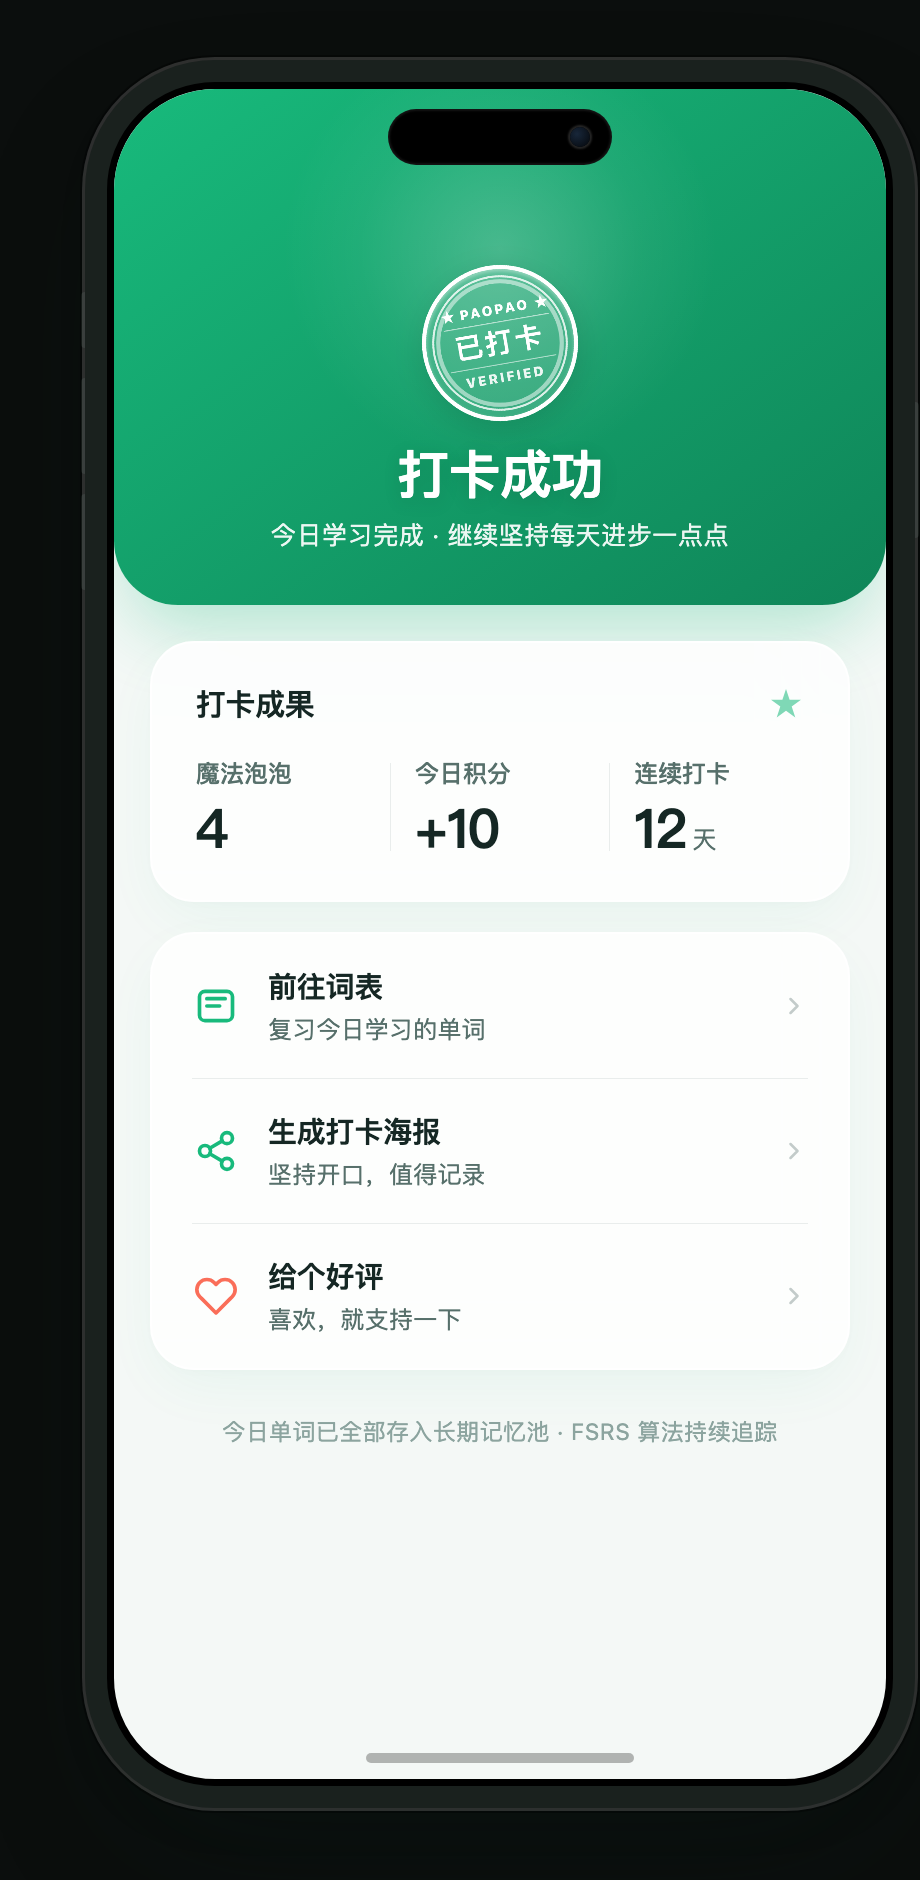
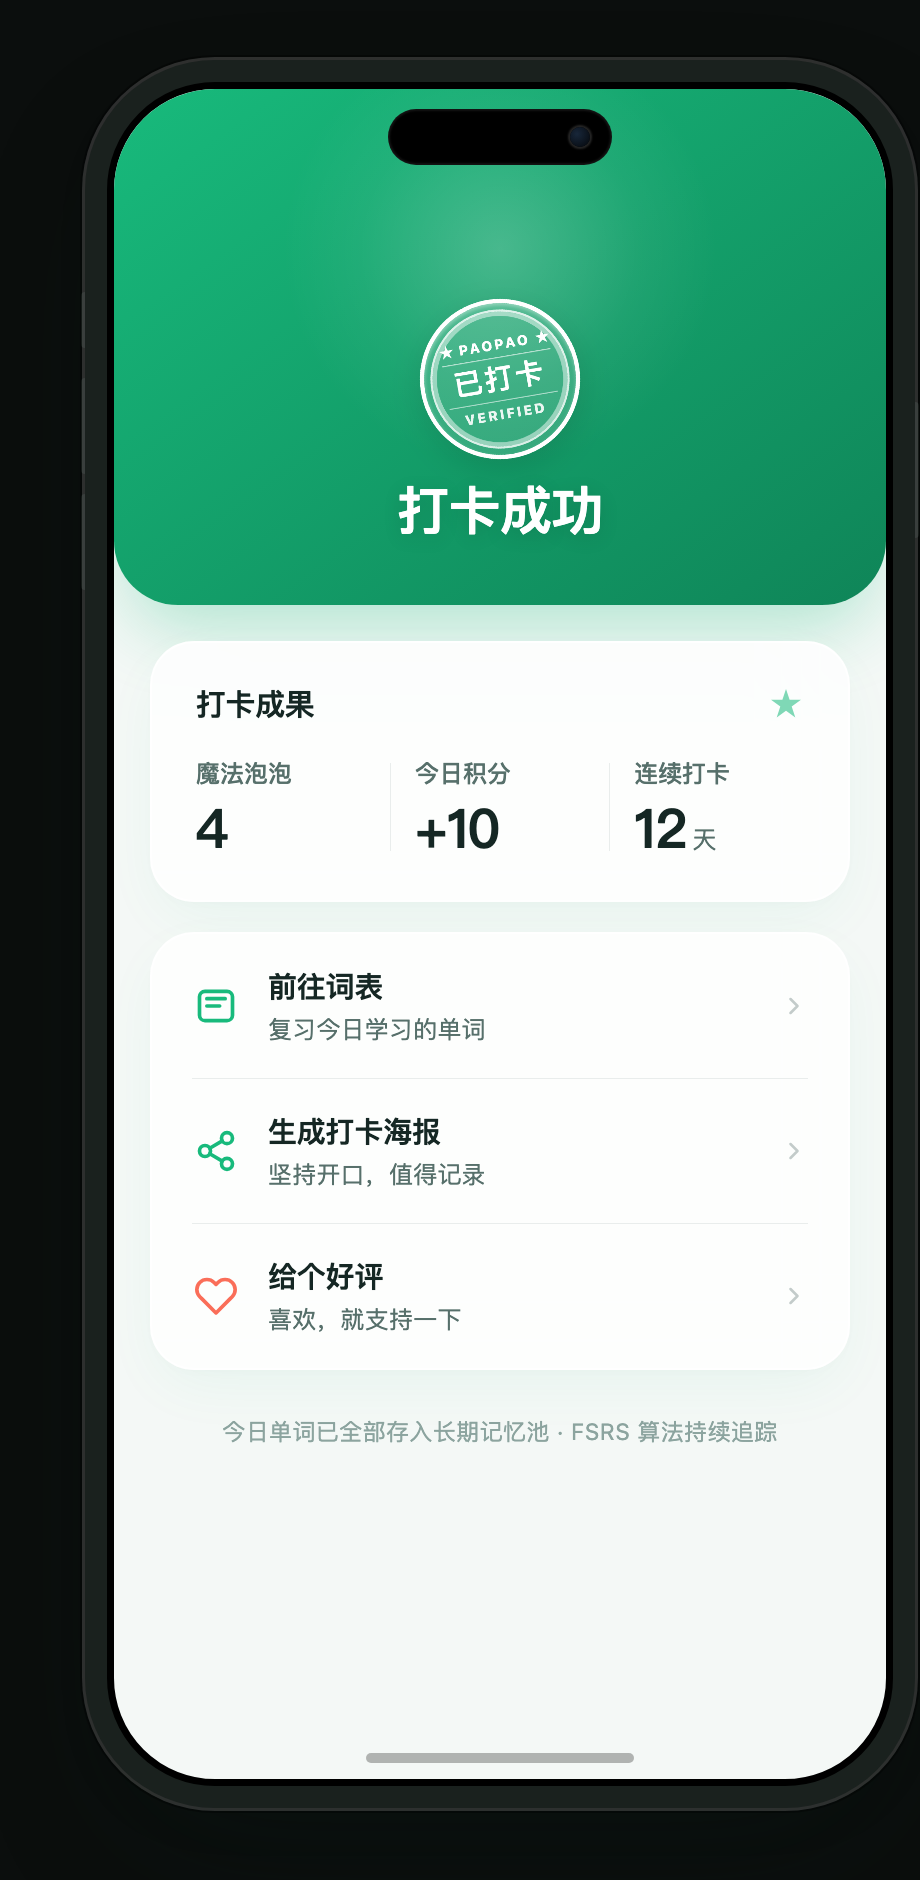
refactor: remove hero subtitle from finish page

Changed region(s): [[0.3043, 0.1234, 0.7, 0.3085], [0.7304, 0.2777, 0.7913, 0.3085]]

diff --git a/app/lib/page/finish.dart b/app/lib/page/finish.dart
@@ -294,18 +294,6 @@ class FinishPageState extends State<FinishPage> {
                     letterSpacing: -0.3,
                   ),
                 ),
-                const SizedBox(height: 6),
-                Text(
-                  isExtraRound
-                      ? '加量已学完 · 状态好就再多背一组'
-                      : '今日学习完成 · 继续坚持每天进步一点点',
-                  style: TextStyle(
-                    color: Colors.white.withValues(alpha: 0.92),
-                    fontSize: 12,
-                    fontWeight: FontWeight.w400,
-                    letterSpacing: 0.4,
-                  ),
-                ),
               ],
             ),
           ),

diff --git a/design/ui/finish_preview.html b/design/ui/finish_preview.html
@@ -406,7 +406,6 @@
         </div>
       </div>
       <h1 class="hero-title">打卡成功</h1>
-      <p class="hero-subtitle">今日学习完成 · 继续坚持每天进步一点点</p>
     </div>
 
     <!-- 主体区域 -->
